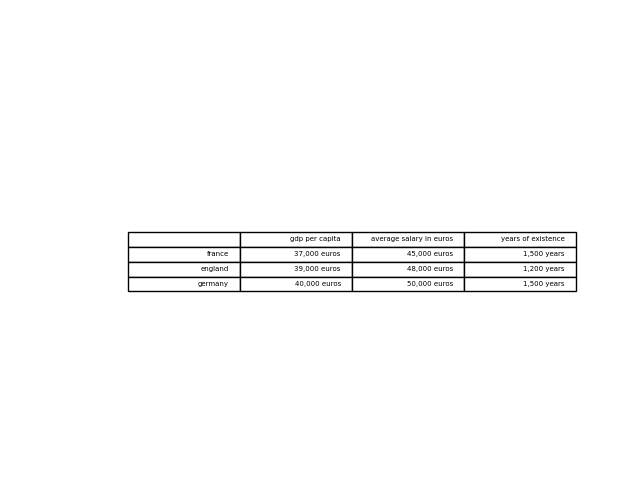
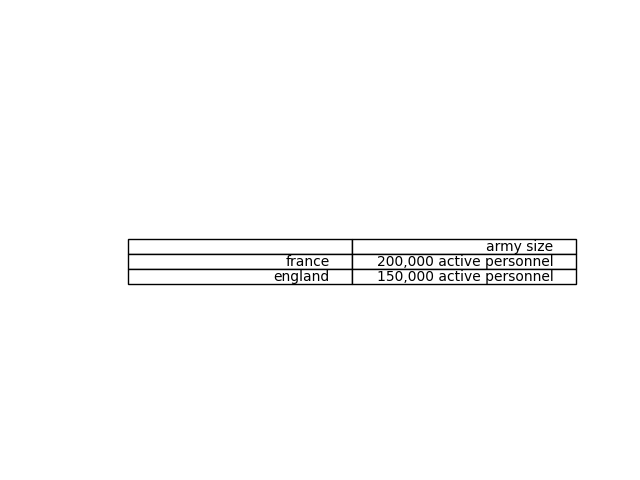
table pasting into web page

Changed region(s): [[0.1875, 0.4688, 0.9062, 0.625]]

diff --git a/static/table_generator.js b/static/table_generator.js
@@ -5,60 +5,124 @@ console.log(currentPage)
 
 //  Original code: **{
 // //  Execute getColors() when submit button is clicked
-const form = document.querySelector("#table_form");
-    form.addEventListener("submit", function (e) {
+const tableForm = document.querySelector("#table_form");
+tableForm.addEventListener("submit", function (e) {
       e.preventDefault();
-      generateHtmlTable();
+      getTableInfo();
     });
 
 
-function generateHtmlTable() {
+    // Performs the POST request for fetching chart information
+function getTableInfo() {
   const options = table_form.elements.options.value;
   const characteristics = table_form.elements.characteristics.value;
-  // Fetch JSON data from the endpoint
-  fetch('/table-generator', {
-    method: 'POST',
+  
+  fetch("/table-generator", {
+    method: "POST",
     headers: {
-      'Content-Type': 'application/x-www-form-urlencoded'
+      "Content-Type": "application/x-www-form-urlencoded"
     },
-    body: JSON.stringify({
-      characteristics: characteristics,
-      options: options
+    body: new URLSearchParams({
+      options: options,
+      characteristics: characteristics
     })
-  }) 
-  .then(response => {
-      if (!response.ok) {
-          throw new Error('Failed to fetch data from the endpoint');
-      }
-      return response.json();
+  })
+  .then((response) => {
+    if (!response.ok) {
+      throw new Error("Network response was not ok");
+    }
+    return response.text();
   })
   .then(data => {
-      // Construct HTML table
-      let html = '<table border="1"><tr>';
-      
-      // Extract column headers dynamically
-      const headers = Object.keys(data[Object.keys(data)[0]]);
-      html += headers.map(header => `<th>${header.replace('_', ' ').toUpperCase()}</th>`).join('');
-      html += '</tr>';
-      
-      // Iterate through each country's data
-      Object.entries(data).forEach(([country, info]) => {
-          html += '<tr>';
-          headers.forEach(header => {
-              html += `<td>${info[header]}</td>`;
-          });
-          html += '</tr>';
-      });
-      
-      html += '</table>';
-      
-      // Render HTML table
-      document.getElementById('container').innerHTML = html;
+    if (data === "bar chart created") {
+      //return sleep(100);
+    }
+  })
+  .then(() => {
+    // After the delay, show the chart
+    showTable();
   })
   .catch(error => {
-      console.error(error);
+    console.error("There was a problem with the fetch operation:", error);
   });
 }
+
+function showTable(tableImageUrl) {
+  const tableImg = document.getElementById("table-img");
+  tableImg.src = "";
+  const newWidth = 400 * 2; // Set your desired width
+  const newHeight = 300 * 2; // Set your desired height
+  tableImg.style.width = newWidth + "px";
+  tableImg.style.height = newHeight + "px";
+  tableImg.src = "./static/images/my_table.png";
+  tableImg.style.marginLeft = "auto";
+  tableImg.style.marginRight = "auto";
+  tableImg.style.display = "block";
+}
+
+
+
+
+
+
+
+
+
+
+
+
+
+
+
+
+
+//     function generateHtmlTable() {
+//   const options = table_form.elements.options.value;
+//   const characteristics = table_form.elements.characteristics.value;
+//   // Fetch JSON data from the endpoint
+//   fetch('/table-generator', {
+//     method: 'POST',
+//     headers: {
+//       'Content-Type': 'application/x-www-form-urlencoded'
+//     },
+//     body: JSON.stringify({
+//       characteristics: characteristics,
+//       options: options
+//     })
+//   }) 
+//   .then(response => {
+//       if (!response.ok) {
+//           throw new Error('Failed to fetch data from the endpoint');
+//       }
+//       return response.json();
+//   })
+//   .then(data => {
+//       // Construct HTML table
+//       let html = '<table border="1"><tr>';
+      
+//       // Extract column headers dynamically
+//       const headers = Object.keys(data[Object.keys(data)[0]]);
+//       html += headers.map(header => `<th>${header.replace('_', ' ').toUpperCase()}</th>`).join('');
+//       html += '</tr>';
+      
+//       // Iterate through each country's data
+//       Object.entries(data).forEach(([country, info]) => {
+//           html += '<tr>';
+//           headers.forEach(header => {
+//               html += `<td>${info[header]}</td>`;
+//           });
+//           html += '</tr>';
+//       });
+      
+//       html += '</table>';
+      
+//       // Render HTML table
+//       document.getElementById('container').innerHTML = html;
+//   })
+//   .catch(error => {
+//       console.error(error);
+//   });
+// }
 
 
 function sleep(ms) {

diff --git a/templates/table_generator.html b/templates/table_generator.html
@@ -26,7 +26,7 @@
     </form>
   </h1>
   <div id= "container" class="container">
-    <img id="chart-img" src="" >
+    <img id="table-img" >
   </div>
   <script src="static/table_generator.js"></script>
 </body>
